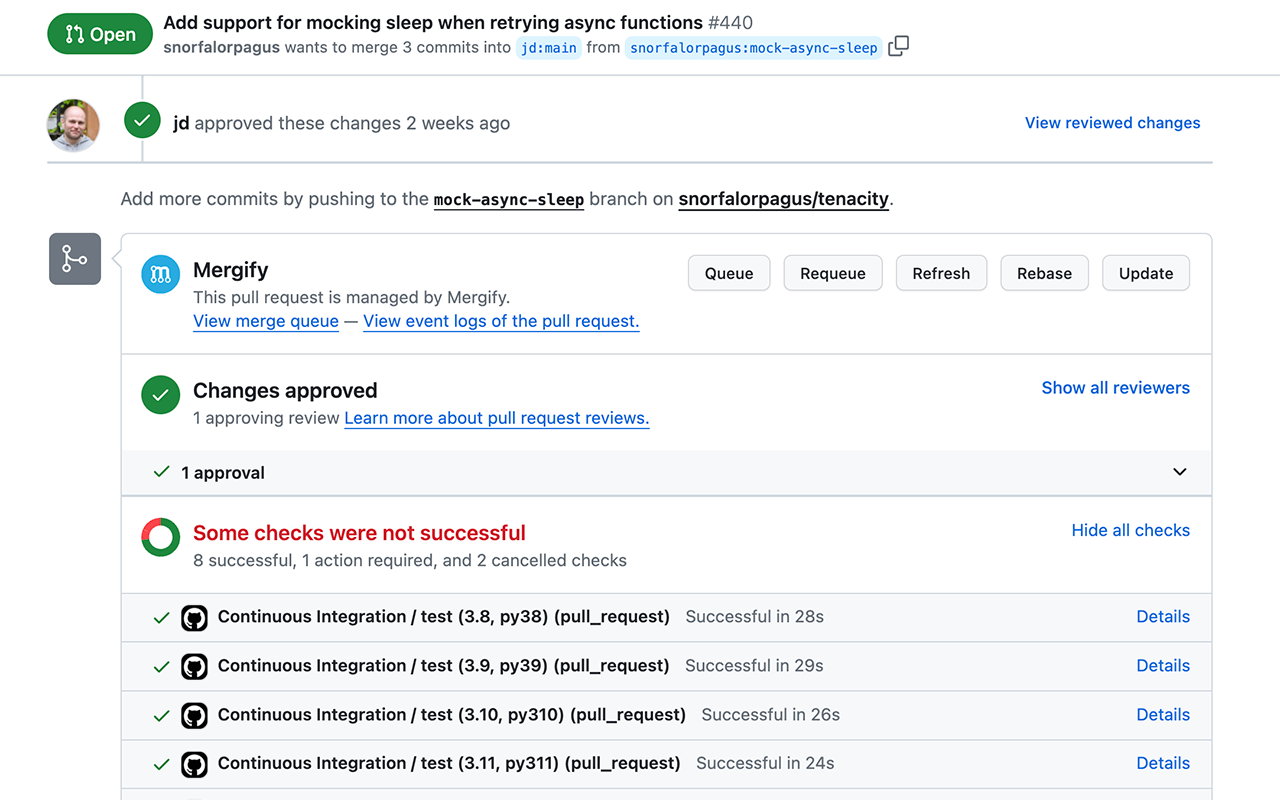
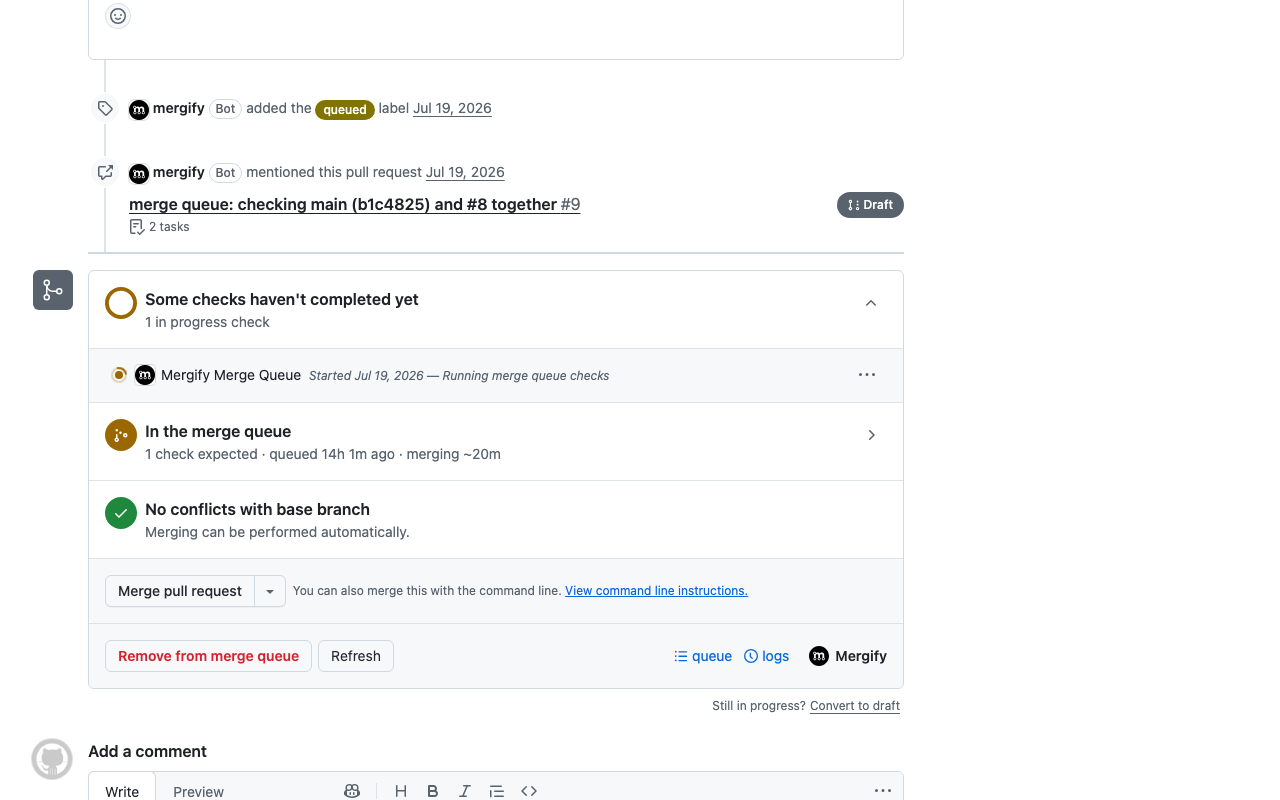
feat(queue): remove the Rebase and Update buttons (#979)
The Mergify row in the merge box now offers the queue button and
Refresh only. Rebase and Update posted `@mergifyio rebase` and
`@mergifyio update`; both commands still work when typed as a comment,
the extension just stops putting a button for them next to the merge
queue controls.

- `BUTTONS` goes away: with one command left, `appendRefreshButton()`
  builds Refresh directly. Its `disableOnClosedPR` field had no reader.
- Nothing else was specific to these buttons: no style, no fixture, and
  no manifest permission (every command goes through the page's comment
  box), so the manifest is unchanged.
- The README screenshot showed the old row (Queue, Requeue, Refresh,
  Rebase, Update). It is replaced by a capture of the current row on a
  recorded sandbox pull request in the merge queue.

The extension version is not stored in the repository: it is the tag
given to the release workflow. As this removes a feature, the next
release should be a minor bump (1.11.0).

Approved-by: kozlek <3019422+kozlek@users.noreply.github.com>

diff --git a/src/queue.js b/src/queue.js
@@ -44,27 +44,6 @@ export function formatEta(etaIso, now = Date.now()) {
     return `~${Math.round(deltaMs / 60000)}m`;
 }
 
-export const BUTTONS = [
-    {
-        command: "refresh",
-        label: "Refresh",
-        tooltip: "Trigger Mergify to reevaluate the pull request",
-        disableOnClosedPR: false,
-    },
-    {
-        command: "rebase",
-        label: "Rebase",
-        tooltip: "Rebase the pull request against its base branch",
-        disableOnClosedPR: true,
-    },
-    {
-        command: "update",
-        label: "Update",
-        tooltip: "Update the pull request with its base branch",
-        disableOnClosedPR: true,
-    },
-];
-
 export const MERGED_MESSAGES = [
     "Merged while you weren't looking ✨",
     "Another one bites the queue 🎶",
@@ -695,22 +674,20 @@ export function buildQueueButton(state, conditions) {
     return btn;
 }
 
-// Append the Refresh/Rebase/Update command buttons to a container. On a batch
-// PR they are omitted — Mergify owns the branch, so any command here would
-// invalidate the batch.
-function appendCommandButtons(container) {
+// Append the Refresh button to a container. On a batch PR it is
+// omitted — Mergify owns the branch, so any command here would invalidate the
+// batch.
+function appendRefreshButton(container) {
     if (isMergeQueueBatchPr()) return;
-    for (const btn of BUTTONS) {
-        container.appendChild(
-            buildMergeBoxButton(
-                btn.command,
-                btn.label,
-                btn.tooltip,
-                false,
-                "secondary",
-            ),
-        );
-    }
+    container.appendChild(
+        buildMergeBoxButton(
+            "refresh",
+            "Refresh",
+            "Trigger Mergify to reevaluate the pull request",
+            false,
+            "secondary",
+        ),
+    );
 }
 
 // Append the queue and logs links via the caller's appendLink(href, text, svg),
@@ -839,7 +816,7 @@ function buildLegacyDefaultRow() {
         const buttons = document.createElement("div");
         buttons.style.cssText = "display:flex;gap:6px;";
         buttons.appendChild(buildQueueButton(state, conditions));
-        appendCommandButtons(buttons);
+        appendRefreshButton(buttons);
         row.appendChild(buttons);
     }
 
@@ -880,7 +857,7 @@ function buildLegacySidebarRow() {
         const buttons = document.createElement("div");
         buttons.style.cssText = "display:flex;gap:6px;flex-wrap:wrap;";
         buttons.appendChild(buildQueueButton(state, conditions));
-        appendCommandButtons(buttons);
+        appendRefreshButton(buttons);
         row.appendChild(buttons);
     }
 
@@ -1579,7 +1556,7 @@ function buildButtonsRow(queueButtonState) {
         buttons.appendChild(
             buildQueueButton(queueButtonState, lastKnownQueueConditions),
         );
-        appendCommandButtons(buttons);
+        appendRefreshButton(buttons);
         row.appendChild(buttons);
     }
     row.appendChild(buildBrandAndLinks());

diff --git a/src/__tests__/queue.test.js b/src/__tests__/queue.test.js
@@ -1113,16 +1113,12 @@ describe("batch-PR row treatment", () => {
         });
     });
 
-    test("a normal draft PR keeps its queue and command buttons", () => {
+    test("a normal draft PR keeps its queue and Refresh buttons", () => {
         setPrDom({ draft: true, author: "octocat", baseRef: "main" });
         const row = buildMergifyRow();
         expect(row.querySelector("[data-mergify-queue-btn]")).not.toBeNull();
         const buttons = commandButtonsOf(row);
-        expect(buttons.map((b) => b.textContent)).toEqual([
-            "Refresh",
-            "Rebase",
-            "Update",
-        ]);
+        expect(buttons.map((b) => b.textContent)).toEqual(["Refresh"]);
         for (const b of buttons) {
             expect(b.hasAttribute("aria-disabled")).toBe(false);
         }
